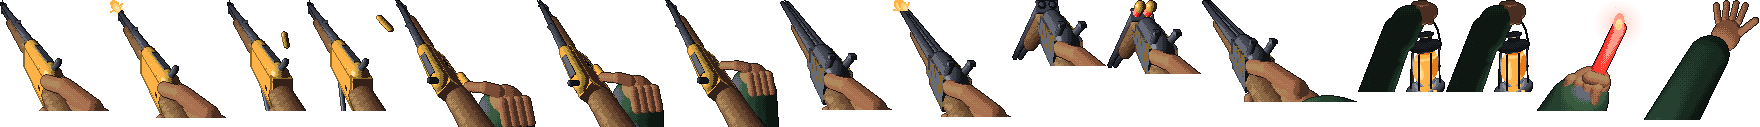
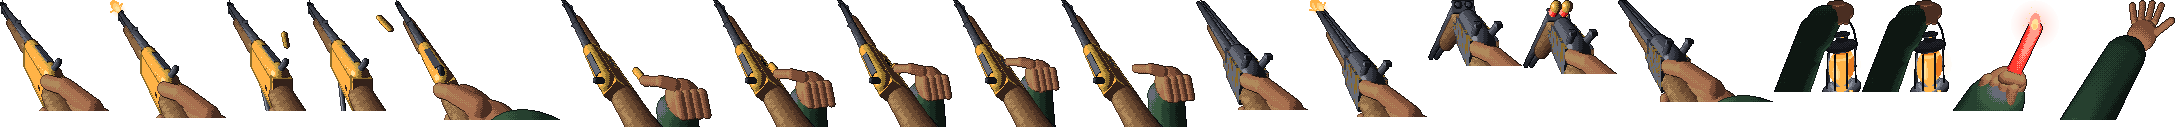
Last Light: loading the rifle as one smooth motion
The reload still looked goofy in motion: the rifle jumped from its idle
pose to the loading pose in one frame, the hand teleported from the wrist,
each round was three quick frames of the fist sliding forward and snapping
back, the middle frame was tilted differently so the rifle wobbled, and
rounds appeared at the gate from nowhere.

Now the rifle passes through a half-tilted frame (hand still on the wrist)
going up to load and coming back down, holds exactly still while loading,
and each round takes five frames: the hand comes up holding a round, its
nose meets the gate (which opens), it's pushed half in, then home, and the
empty hand drops back for the next. A round goes home just as its time runs
out, with the click. The gun keeps loadT (seconds since loading last
started or stopped) for the tilt.

Claude-Session: https://claude.ai/code/session_01Jer9JZ6gGPVuWkiQDWM26m

diff --git a/last-light/src/hud.js b/last-light/src/hud.js
@@ -7,7 +7,8 @@ import { hourLabel } from './night.js';
 
 // Every frame of the hands art, and every HUD icon, the HUD draws.
 export const HAND_FRAMES = [
-  'rifle-idle', 'rifle-fire', 'rifle-lever-1', 'rifle-lever-2', 'rifle-reload-1', 'rifle-reload-2', 'rifle-reload-3',
+  'rifle-idle', 'rifle-fire', 'rifle-lever-1', 'rifle-lever-2', 'rifle-tilt',
+  'rifle-load-up', 'rifle-load-gate', 'rifle-load-in', 'rifle-load-home', 'rifle-load-back',
   'shotgun-idle', 'shotgun-fire', 'shotgun-reload-1', 'shotgun-reload-2', 'shotgun-reload-3',
   'lantern-1', 'lantern-2', 'throw-1', 'throw-2',
 ];
@@ -15,7 +16,11 @@ export const HUD_ICONS = ['heart', 'round', 'roundEmpty', 'shell', 'shellEmpty',
 
 const FONTS = { 8: '8px Silkscreen, monospace', 16: '16px Silkscreen, monospace', 24: '24px Silkscreen, monospace' };
 const HOURS = ['9 PM', '10 PM', '11 PM', '12 AM', '1 AM', '2 AM', '3 AM', '4 AM', 'dawn'];
-const RIFLE_RELOAD = ['rifle-reload-1', 'rifle-reload-2', 'rifle-reload-3'];
+// Pushing one round into the rifle: up with a round, at the gate, half in, home, back for the next. A
+// round goes home as its time runs out (with the click), so each round's time starts with the one
+// before it home, then the hand going back for it; loading's first moments are the rifle tilting up.
+const RIFLE_RELOAD = ['rifle-load-home', 'rifle-load-back', 'rifle-load-up', 'rifle-load-gate', 'rifle-load-in'];
+const TILT = 0.08; // seconds the rifle shows half tilted, going up to load and coming back down
 const SHOTGUN_RELOAD = ['shotgun-reload-1', 'shotgun-reload-2', 'shotgun-reload-3'];
 // Numbers as text, made once, so the HUD doesn't build new strings every frame.
 const NUMBERS = Array.from({ length: 201 }, (_, i) => String(i));
@@ -24,7 +29,8 @@ const num = (n) => NUMBERS[Math.max(0, Math.min(200, Math.ceil(n)))];
 const fellText = (n) => `${n} after-eater${n === 1 ? '' : 's'} fell`;
 
 const shown = { name: '', drop: 0 };
-const third = (t, whole) => Math.min(2, Math.max(0, Math.floor((1 - t / whole) * 3)));
+// Which of n frames a countdown from `whole` to 0 is at, `t` left.
+const step = (t, whole, n) => Math.min(n - 1, Math.max(0, Math.floor((1 - t / whole) * n)));
 
 // Which frame of the gun in your hand to show, and how far it's lowered (0 up, 1 down). Returns a
 // reused { name, drop }.
@@ -43,10 +49,14 @@ export function gunFrame(gun) {
     else if (gun.shotT < 0.2) name = 'rifle-idle';
     else if (gun.shotT < 0.3) name = 'rifle-lever-1';
     else if (gun.shotT < RIFLE.interval) name = 'rifle-lever-2';
-    else if (gun.reloading) name = RIFLE_RELOAD[third(gun.reloadT, RIFLE.reloadPerRound)];
-    else name = 'rifle-idle';
+    // Going up to load and coming back down, it passes through half tilted. Up counts from when the
+    // loading shows: an empty rifle starts loading with its last shot, but works the lever first.
+    else if (gun.reloading) {
+      const up = Math.min(gun.loadT, gun.shotT - RIFLE.interval);
+      name = up < TILT ? 'rifle-tilt' : RIFLE_RELOAD[step(gun.reloadT, RIFLE.reloadPerRound, RIFLE_RELOAD.length)];
+    } else name = gun.loadT < TILT ? 'rifle-tilt' : 'rifle-idle';
   } else if (gun.shotT < 0.06) name = 'shotgun-fire';
-  else if (gun.reloading) name = SHOTGUN_RELOAD[third(gun.reloadT, SHOTGUN.reload)];
+  else if (gun.reloading) name = SHOTGUN_RELOAD[step(gun.reloadT, SHOTGUN.reload, SHOTGUN_RELOAD.length)];
   else name = 'shotgun-idle';
   shown.name = name;
   shown.drop = drop;

diff --git a/last-light/test/hud.test.js b/last-light/test/hud.test.js
@@ -17,9 +17,43 @@ test('the rifle: flash, idle, the lever working, reloading', () => {
   g.shotT = 5;
   g.reloading = true;
   g.reloadT = RIFLE.reloadPerRound * 0.1;
-  assert.equal(gunFrame(g).name, 'rifle-reload-3');
+  assert.equal(gunFrame(g).name, 'rifle-load-in');
   g.reloading = false;
   assert.equal(gunFrame(g).name, 'rifle-idle');
+});
+
+test('loading the rifle: it tilts up, and each round goes home just as its time runs out', () => {
+  const g = createGun();
+  g.shotT = 5;
+  g.reloading = true;
+  g.reloadT = RIFLE.reloadPerRound;
+  g.loadT = 0.03;
+  assert.equal(gunFrame(g).name, 'rifle-tilt', 'on the way up');
+  g.loadT = 1;
+  const seen = [];
+  for (let i = 0; i < 5; i++) {
+    g.reloadT = RIFLE.reloadPerRound * (1 - (i + 0.5) / 5);
+    seen.push(gunFrame(g).name);
+  }
+  assert.deepEqual(seen, ['rifle-load-home', 'rifle-load-back', 'rifle-load-up', 'rifle-load-gate', 'rifle-load-in']);
+  g.reloading = false;
+  g.loadT = 0.03;
+  assert.equal(gunFrame(g).name, 'rifle-tilt', 'on the way down');
+  g.loadT = 1;
+  assert.equal(gunFrame(g).name, 'rifle-idle');
+});
+
+test('an empty rifle that starts loading by itself works the lever first, then tilts up', () => {
+  const g = createGun();
+  g.reloading = true;
+  g.reloadT = RIFLE.reloadPerRound / 2;
+  g.loadT = RIFLE.interval - 0.1; // the reload started with the last shot
+  g.shotT = RIFLE.interval - 0.1;
+  assert.equal(gunFrame(g).name, 'rifle-lever-2');
+  g.loadT = g.shotT = RIFLE.interval + 0.03;
+  assert.equal(gunFrame(g).name, 'rifle-tilt');
+  g.loadT = g.shotT = RIFLE.interval + 0.2;
+  assert.match(gunFrame(g).name, /^rifle-load-/);
 });
 
 test('switching lowers one gun and raises the other', () => {
@@ -46,7 +80,10 @@ test('every frame name the HUD can ask for exists in the hands art', () => {
       for (let t = 0; t < 1.3; t += 0.01) {
         g.shotT = t;
         g.reloadT = t;
-        names.add(gunFrame(g).name);
+        for (const loadT of [0, 1]) {
+          g.loadT = loadT;
+          names.add(gunFrame(g).name);
+        }
       }
     }
   }

diff --git a/last-light/test/weapons.test.js b/last-light/test/weapons.test.js
@@ -85,6 +85,20 @@ test('holding fire shoots the rifle at its lever rate, 8 rounds, then it reloads
   assert.equal(s.gun.reloading, false);
 });
 
+test("the gun keeps time since loading last started or stopped, for the hands", () => {
+  const s = quietState();
+  assert.ok(s.gun.loadT >= 0.5, 'a new gun is long settled');
+  run(s, DT, intents({ facing: south, fire: true })); // one shot: 7 left
+  run(s, RIFLE.interval, intents({ facing: south }));
+  run(s, DT, intents({ facing: south, reload: 1 }));
+  assert.ok(s.gun.reloading && s.gun.loadT < DT * 1.5, `just started: ${s.gun.loadT}`);
+  run(s, 0.1, intents({ facing: south }));
+  assert.ok(s.gun.reloading && Math.abs(s.gun.loadT - 0.1) < DT * 1.5, `loading for 0.1 s: ${s.gun.loadT}`);
+  run(s, RIFLE.reloadPerRound, intents({ facing: south }));
+  assert.equal(s.gun.reloading, false);
+  assert.ok(s.gun.loadT < RIFLE.reloadPerRound, `stopped a moment ago: ${s.gun.loadT}`);
+});
+
 test('reloading goes a round at a time, and firing interrupts it', () => {
   const s = quietState();
   run(s, RIFLE.interval * 3 + 0.01, intents({ facing: south, fire: true })); // 4 shots: 4 left

diff --git a/last-light/src/weapons.js b/last-light/src/weapons.js
@@ -25,6 +25,7 @@ export function createGun() {
     flares: FLARE.start, flareT: 0,
     kick: 0, // view kick, radians, springing back
     shotT: 0, // seconds since the last shot, for the gun's animation
+    loadT: 1, // seconds since reloading last started or stopped, for the hands
   };
 }
 
@@ -151,6 +152,7 @@ function throwFlare(state) {
 // intents: { fire (held), reload (presses), weapon (0 none, 1 rifle, 2 shotgun), weaponStep (-1, 0, 1), flare (presses) }
 export function updateGun(state, intents, dt) {
   const g = state.gun;
+  const loading = g.reloading;
   g.shotT += dt;
   if (g.cooldown > 0) g.cooldown -= dt;
   if (g.flareT > 0) g.flareT -= dt;
@@ -186,6 +188,7 @@ export function updateGun(state, intents, dt) {
   }
   if (intents.fire && g.cooldown <= 0 && g.switching <= 0) fire(state);
   if (intents.flare) throwFlare(state);
+  g.loadT = g.reloading === loading ? g.loadT + dt : 0;
 }
 
 export function updateFlares(state, dt) {
